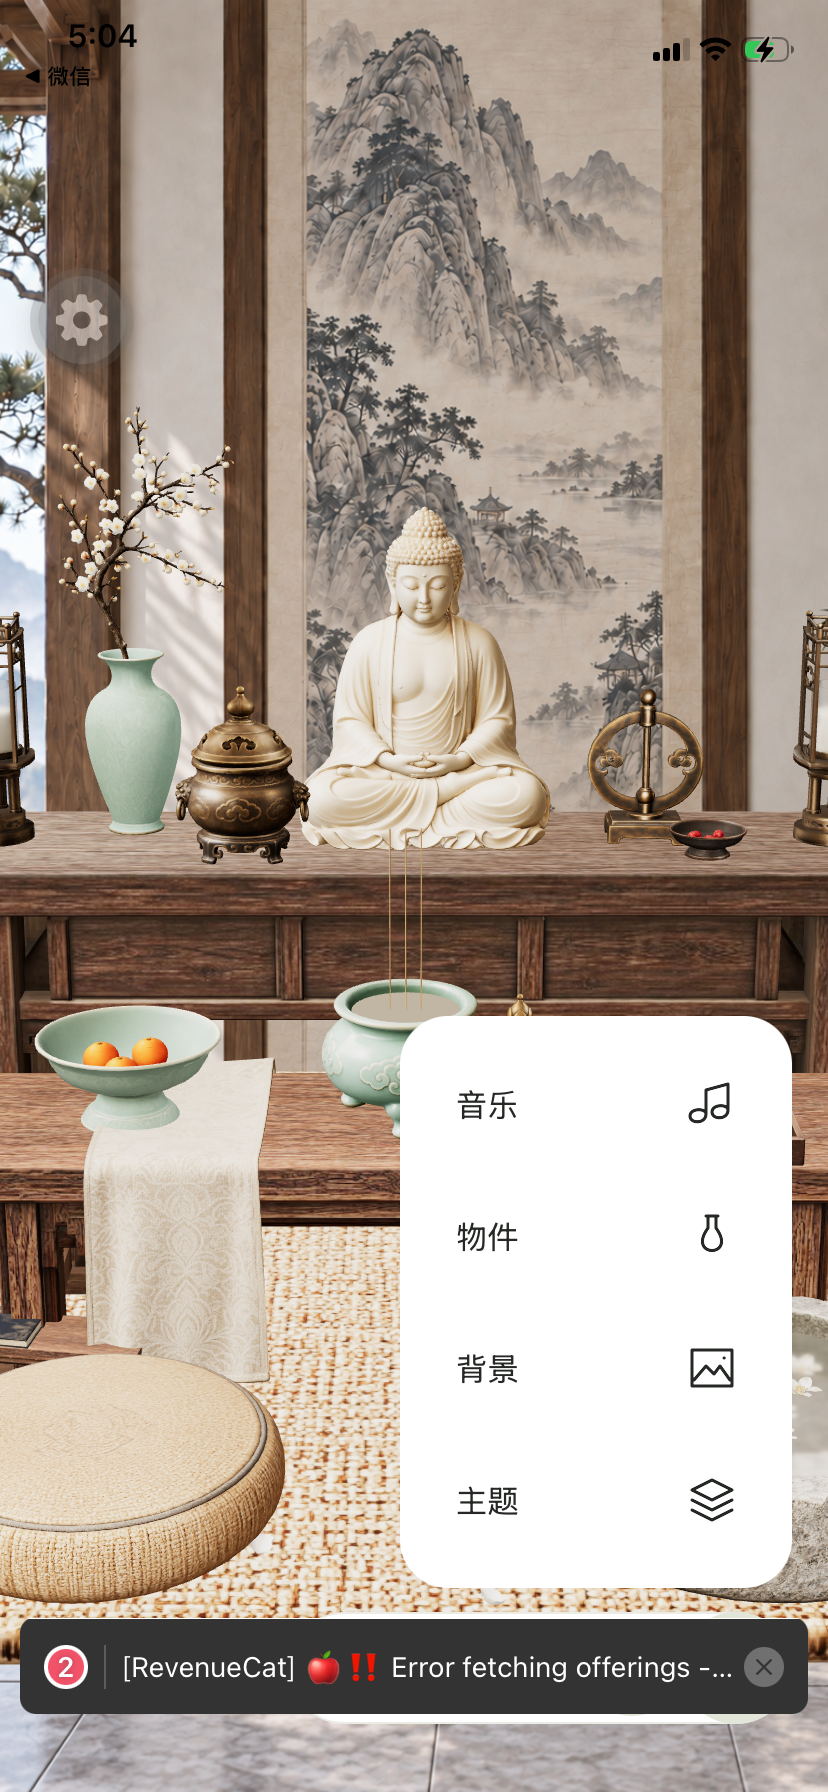
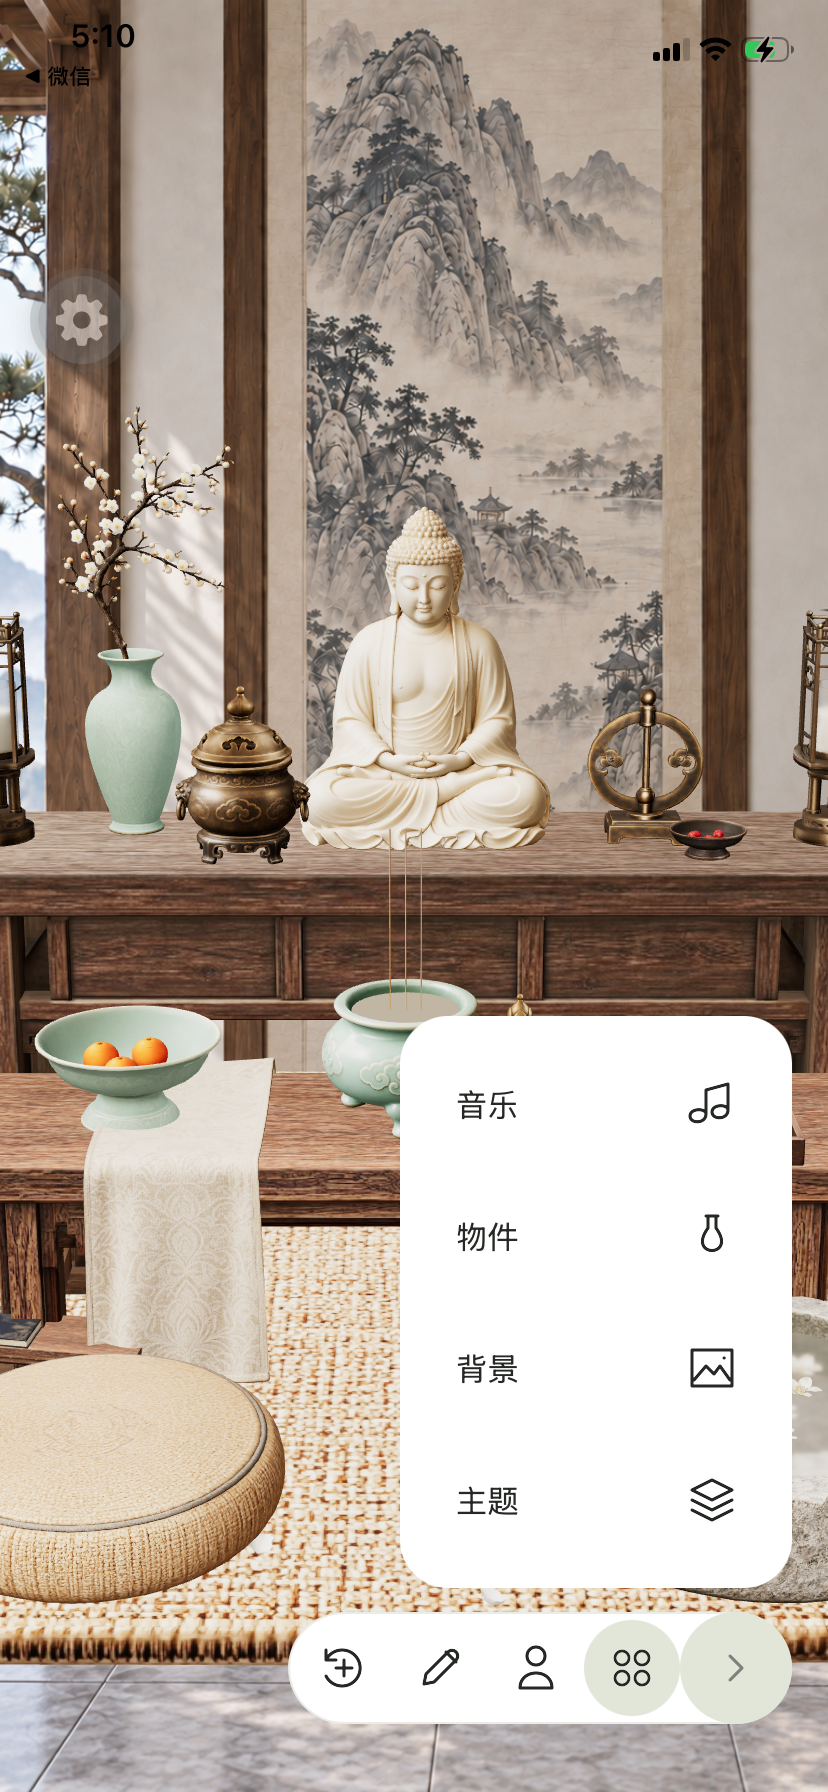
docs(altar): refresh phone captures without developer notices

Changed region(s): [[0.0, 0.875, 0.9964, 0.9688], [0.0906, 0.0, 0.151, 0.0312]]

diff --git a/reviews/altar-home-dock-20260928/README.md b/reviews/altar-home-dock-20260928/README.md
@@ -11,3 +11,5 @@
 原生动画监听记录到中间值，四次快速反向切换后回到 0，隐藏按钮禁用。音乐、物件、背景、主题四个面板均能打开及关闭；编辑模式复用同一个菜单，顶栏实际色值为白色/橄榄色。场景、保存、草稿签名一致，临时视角已恢复。
 
 `phone-checks.json` 和 `interaction-checks.json` 仅包含界面尺寸、布尔检查、文案和配色，不包含场景存档或账户数据。截图通过文件保存后上传，只以固定提交 HTTPS 链接访问。
+
+最终截图已关闭既有 RevenueCat 开发日志提示条后重新拍摄；没有修改支付设置或全局屏蔽日志。
